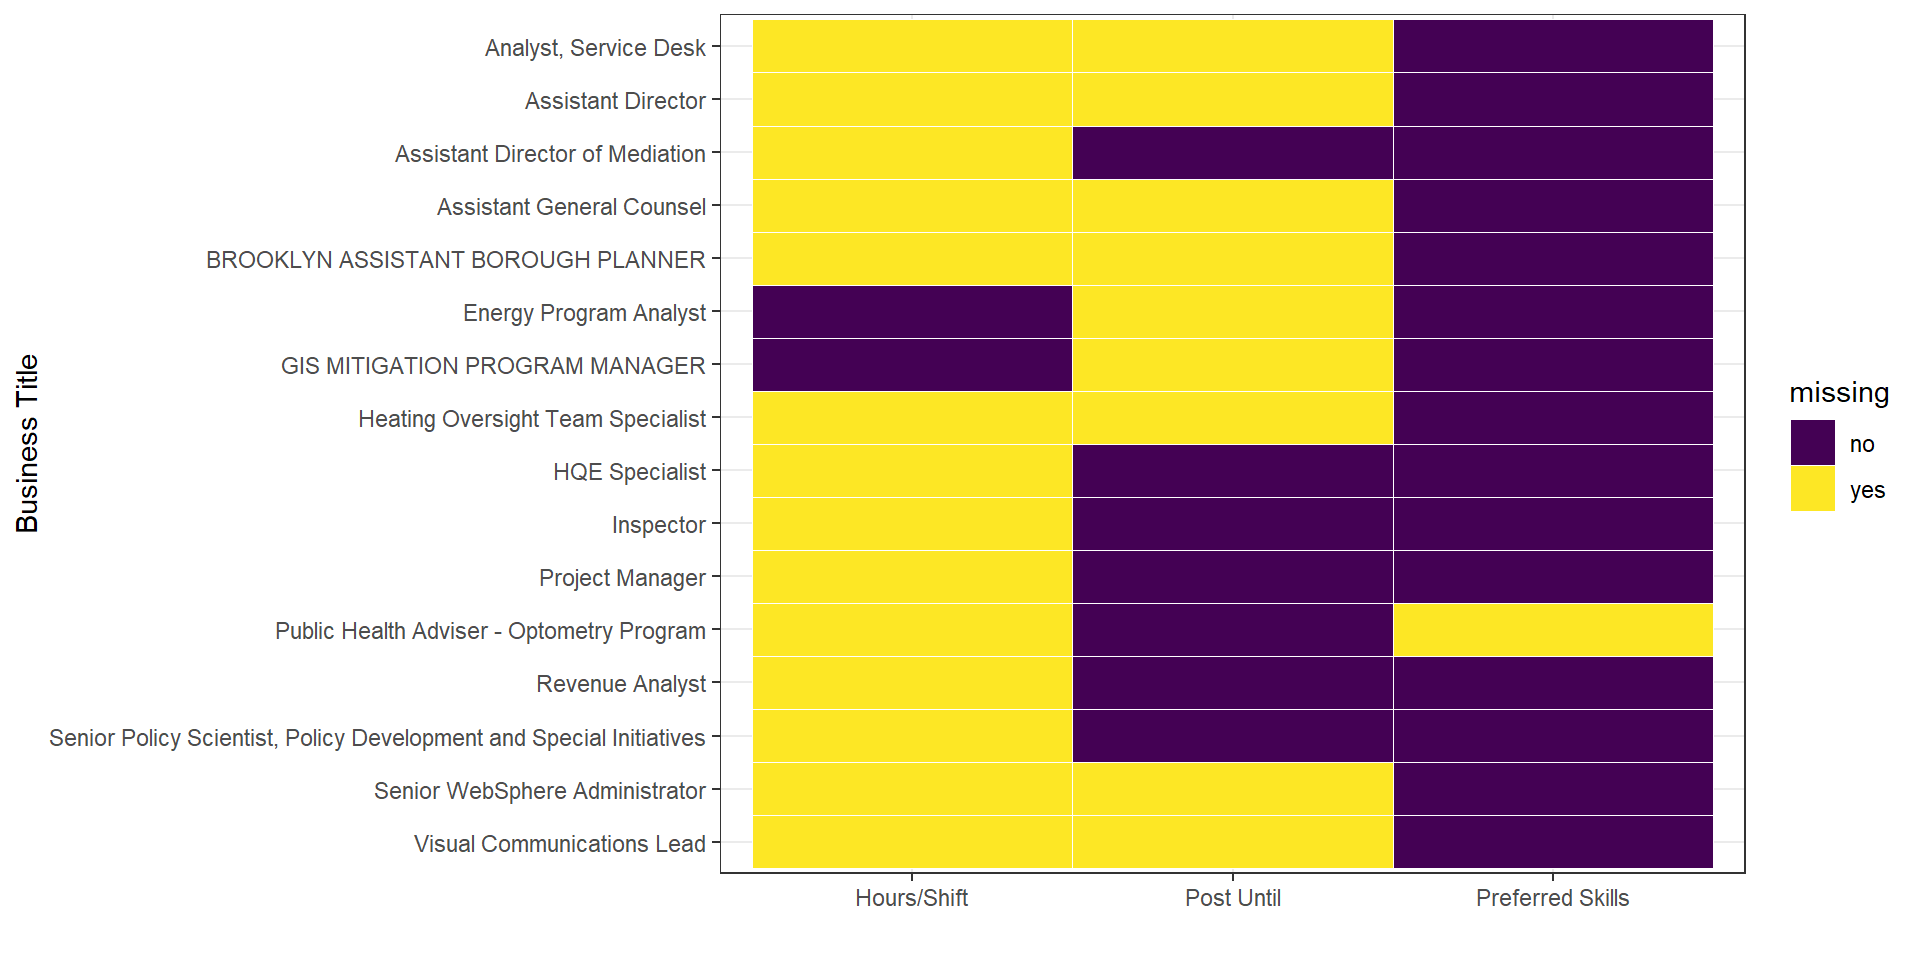
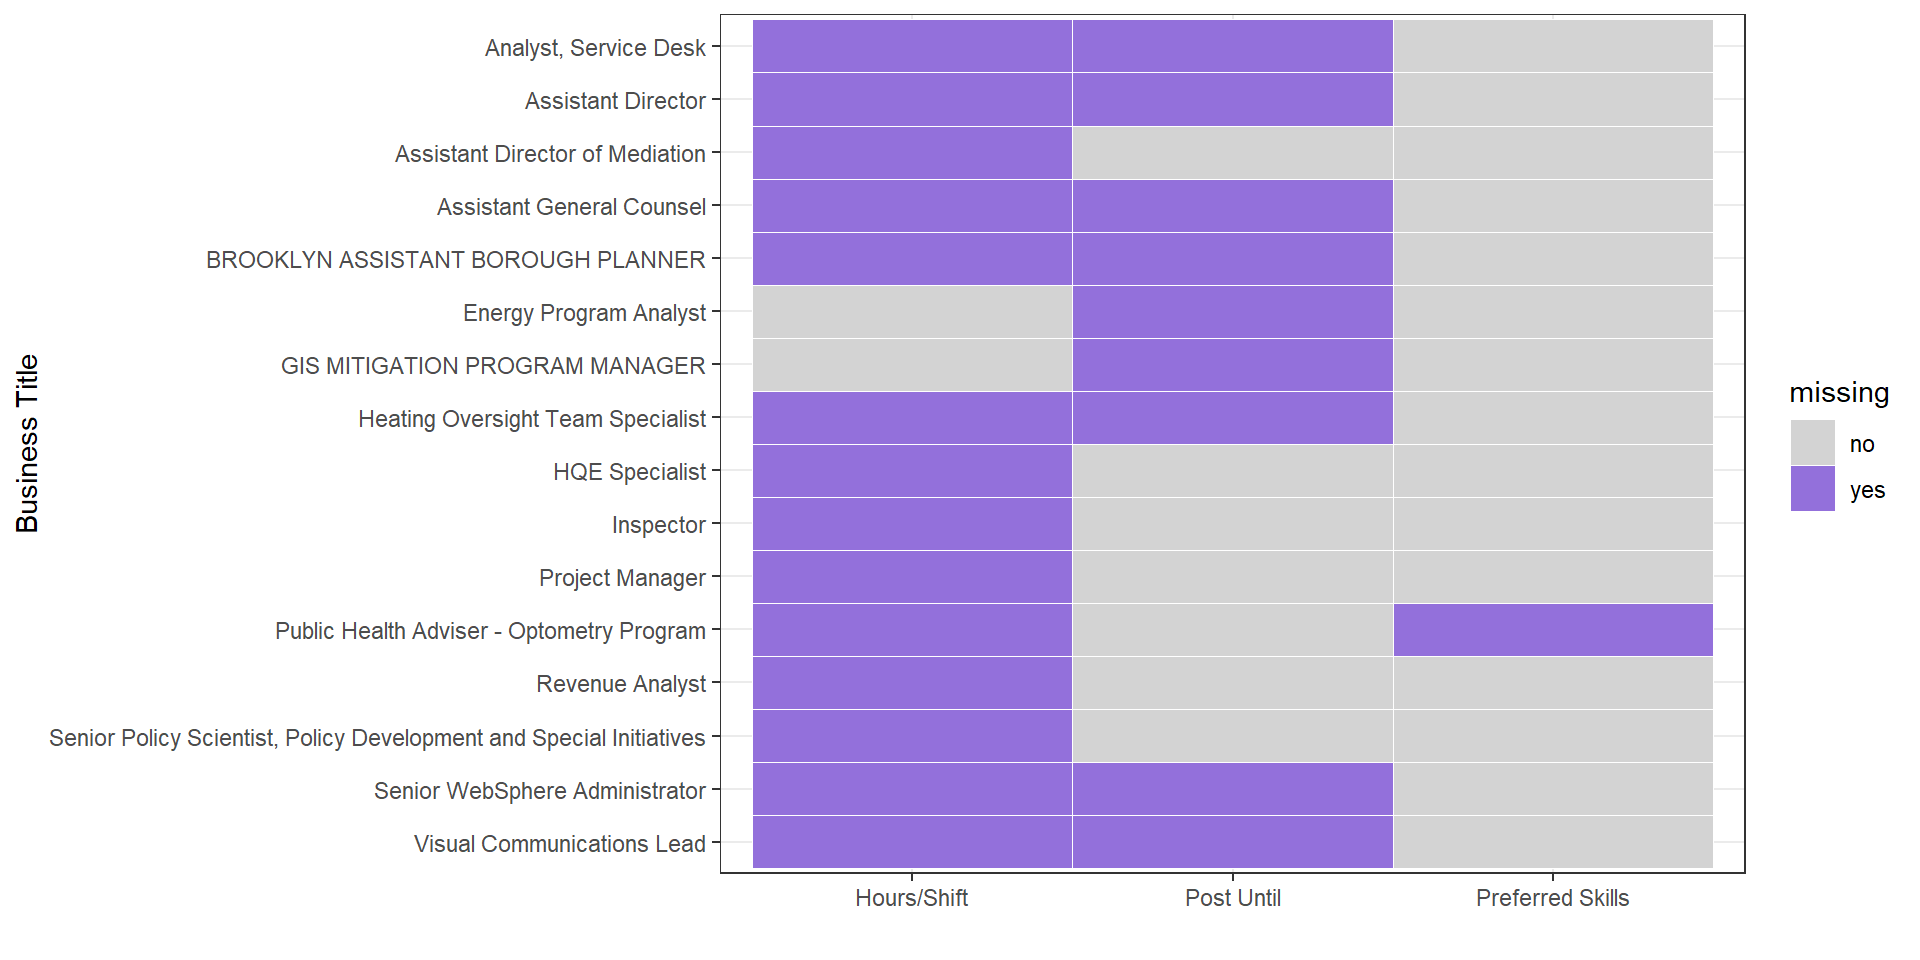
chapter 7 conclusion

diff --git a/docs/results.html b/docs/results.html
@@ -167,14 +167,14 @@ Labor Positions are positions is mainly engaged in unskilled manual labor, like 
 Non-Competitive Positions are positions that are not in the exempt class or the labor class and examination has been determined to not be practicable.
 Is there any difference in salary between each class?</p>
 <p><img src="finalproj_files/figure-html/unnamed-chunk-24-1.png" width="672" /></p>
-<p>In this ridgeline plots of “salary range from”, one for each kind of “Title Classification”, it shows us how the number of job postings of each title classification changes with the lower bound of salary range. We can find that for job postings whose title classifications are “Competitive-1”, “Pending Classification-2”, “Exempt-4”, and “Non-competitive-5”, their low bound of salary range are concentrated around 50000 dollar. However, for job postings whose title classification is “Labor-3”, most of it low bound salary range is less than 50000 dollar.</p>
+<p>In this ridgeline plots, one for each kind of “Title Classification”, it shows us how the number of job postings of each title classification changes with the lower bound of salary range. We can find that for job postings whose title classifications are “Competitive-1”, “Pending Classification-2”, and “Non-competitive-5”, their low bound of salary range are concentrated around 50,000 dollars. “Exempt-4” is more likely to get a higher salary, with one peak near 100,000 dollars and one peak near 150,000 dollars. However, for job postings whose title classification is “Labor-3”, most of it low bound salary range is less than 50,000 dollars, which may because it is unskilled job.</p>
 </div>
 <div id="external-and-internal" class="section level2" number="5.6">
 <h2><span class="header-section-number">5.6</span> External and Internal</h2>
 <p>Except the New York residency requirement, these job postings have another restriction variable “Posting Type” whose meaning is internal or external job posting. And the dataset claims that internal postings available to city employees and external postings available to the general public are included. To find more information about internal and external, we create a scatter plot to show the relationship between job category and this posting type.</p>
 <p><img src="finalproj_files/figure-html/unnamed-chunk-25-1.png" width="672" /></p>
 <p>In this graph, for each job category, we set some categories are more “external” if its number of external job postings is greater than the number of internal job postings times 0.8, some categories are more “internal” if its number of external job postings is less than the number of internal job postings times 0.6, and else categories are “neutral”.
-From the graph, we can find for job categories “Clerical”, “Social”, and “Administration”, these categories are more “internal”. For job categories “Information”, “Policy”, “Public”, “Legal”, and “Constituent Services”, they are more “external”. Other categories are “neutral”.</p>
+From the graph, we can find for job categories “Clerical”, “Social”, and “Administration”, these categories are more “internal”. For job categories “Information”, “Policy”, “Public”, “Legal”, and “Constituent Services”, they are more “external”. Other categories are “neutral”. Thus, for job seekers who are not city employees now, it is difficult to work in Administration.</p>
 </div>
 <div id="word-cloud-for-preferred-skills" class="section level2" number="5.7">
 <h2><span class="header-section-number">5.7</span> Word Cloud for Preferred Skills</h2>

diff --git a/docs/missing-values.html b/docs/missing-values.html
@@ -148,14 +148,13 @@
 <p>We can see that there are total 10 columns have missing values. We decide to ignore Minimum Qualify Requirement, Job Category, Career Level and Residency Requirement because they only have less than 1% missing values in 2838 records.</p>
 <p>We choose 5 columns that have more than 1% missing values to draw the missing pattern graph</p>
 <p><img src="finalproj_files/figure-html/fig1-1.png" width="960" />
-From above plot we can observed that there are 30 different patterns. There are near 200 rows recorded as complete cases. The reason may be each job position is different. The most common pattern is missing of hours shift, Post Until and location.</p>
-<p>From above plot, we can see that 100% of Recruitment Contact are missing, so we decide to drop this column.
-The hours/Shift have over 75% values are missing, and for those values that are not lost, they are very different from each other, and are also difficult for us to classify and compare, so we decide to remove this column.
+From above plot we can observed that there are 30 different patterns. There are near 7% rows recorded as complete cases.The most common pattern is missing of hours shift, post until and work location 1, about 25% of total rows. And the amount of the pattern whose missing is hours shift and work location 1 is around 12.5% of total rows, which is similar to the amount of the pattern whose missing is hours shift and post until. The reason is that for hours shift, many job postings do not have uniform standards; for post until, blank means post until filled; and for work location 1, many job postings have given their work locations in variable “Work Location” and do not one more specific work location.</p>
+<p>The hours/Shift have over 75% values are missing, and for those values that are not lost, they are very different from each other, and are also difficult for us to classify and compare, so we decide to remove this column.
 The Post Until column have over 50% values are missing but we will keep it because Post Until is a date that the job post is available, and the missing means this post will remain available until filled.
-The Prefered Skill column have 10% values are missing. We will keep it because the missing means this post do not have prefered skill requirement.
-For other variables, we will determine how to deal with them after we finish data transformation.</p>
+The Preferred Skill column have 10% values are missing. We will keep it because the missing means this post do not have preferred skill requirement.
+For other variables, we will determine how to deal with them when we make visualization.</p>
 <p><img src="finalproj_files/figure-html/fig2-1.png" width="960" /></p>
-<p>Since Business title is one of the most important variables,we choose some records to analyze the relationship and check if our decision is right.</p>
+<p>Since Business title is one of the most important variables,we choose some records to analyze the relationship and check if our decision is right. From this graph we can find most of this business titles miss “Hours/Shift”, but for variable “Preferred Skills”, almost all business titles have a value. Thus, our decision is right.</p>
 
 </div>
             </section>

diff --git a/docs/conclusion.html b/docs/conclusion.html
@@ -119,6 +119,8 @@
             <section class="normal" id="section-">
 <div id="conclusion" class="section level1" number="7">
 <h1><span class="header-section-number">Chapter 7</span> Conclusion</h1>
+<p>From our project, we can find the jobs in technology are needed most and jobs in Clerical are needed least in New York City. If job seekers want to get a higher salary, it will be good choice for them to get a master’s degree and then work in the technology or information field. What’s more, higher career level cannot substitute for higher degree level, it is always beneficial for job seekers to improve their education level before looking for a job. From the Word Cloud, we can notice that if job seekers want to improve their competitiveness, it would be better for them to improve their skills about Excal, Microsoft, and project experience. For people who have no direction but have specific requirements for the future salary range, for example, they want to achieve an annual salary between 75000 and 100000 dollar, it would be better for them to find jobs whose title Classification is “Exempt-4” or “Non-competitive-5”, and technology kind of job is the most of recommended job for them, followed by engineering kind of job. Most of job postings for these two kinds of job are neutral type, full time job and do not need New York City residency. After getting these information, these job seekers can better plan for their future.</p>
+<p>The limitations in our project are that the objects we analyze and conclude are just a series of job postings that have some same information. We did not analyze some specific jobs or return some specific Job IDs to help job seekers find their job. The future direction for our project is to figure out these limitations and try to help job seekers find the most suitable job with its specific job ID, not just a group of jobs.</p>
 
 </div>
             </section>

diff --git a/docs/interactive-component.html b/docs/interactive-component.html
@@ -121,6 +121,8 @@
 <h1><span class="header-section-number">Chapter 6</span> Interactive component</h1>
 <div id="d3-interactive-annual-salary-distribution" class="section level2" number="6.1">
 <h2><span class="header-section-number">6.1</span> D3 interactive Annual Salary Distribution</h2>
+<p>For job seekers who want to work in NYC but do not know about NYC salary level, this interactive part can help them to get a salary expectation.
+For job seekers who have a salary expectation but not sure apply for which category, this interactive part can help them to compare each category.</p>
 <p>Click the button at the bottom to select the job category or view all you are interested in.
 If you want to know the specific quantity, you can hover the mouse on each bar.</p>
 <p>The embed version compress the y-axis length.
